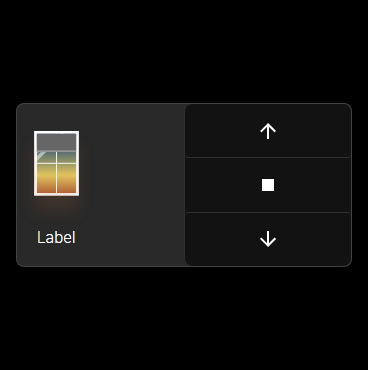
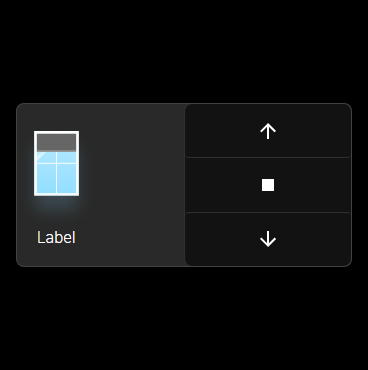
Updated widget images

Changed region(s): [[0.0897, 0.3865, 0.2092, 0.5649]]

diff --git a/components/icons/WindowVisual.tsx b/components/icons/WindowVisual.tsx
@@ -5,30 +5,30 @@ import DateTimeProvider from '../../src/services/DateTimeProvider';
 import styles from './WindowVisual.module.scss';
 
 var skySunnyGrads = [
-    [{ color: "00000c", position: 0 }, { color: "#00000c", position: 0 }],
-    [{ color: "020111", position: 85 }, { color: "#191621", position: 100 }],
-    [{ color: "020111", position: 60 }, { color: "#20202c", position: 100 }],
-    [{ color: "020111", position: 10 }, { color: "#3a3a52", position: 100 }],
-    [{ color: "20202c", position: 0 }, { color: "#515175", position: 100 }],
-    [{ color: "40405c", position: 0 }, { color: "#6f71aa", position: 80 }, { color: "#8a76ab", position: 100 }],
-    [{ color: "4a4969", position: 0 }, { color: "#7072ab", position: 50 }, { color: "#cd82a0", position: 100 }],
-    [{ color: "757abf", position: 0 }, { color: "#8583be", position: 60 }, { color: "#eab0d1", position: 100 }],
-    [{ color: "82addb", position: 0 }, { color: "#ebb2b1", position: 100 }],
-    [{ color: "94c5f8", position: 1 }, { color: "#a6e6ff", position: 70 }, { color: "#b1b5ea", position: 100 }],
-    [{ color: "b7eaff", position: 0 }, { color: "#94dfff", position: 100 }],
-    [{ color: "9be2fe", position: 0 }, { color: "#67d1fb", position: 100 }],
-    [{ color: "90dffe", position: 0 }, { color: "#38a3d1", position: 100 }],
-    [{ color: "57c1eb", position: 0 }, { color: "#246fa8", position: 100 }],
-    [{ color: "2d91c2", position: 0 }, { color: "#1e528e", position: 100 }],
-    [{ color: "2473ab", position: 0 }, { color: "#1e528e", position: 70 }, { color: "#5b7983", position: 100 }],
-    [{ color: "1e528e", position: 0 }, { color: "#265889", position: 50 }, { color: "#9da671", position: 100 }],
-    [{ color: "1e528e", position: 0 }, { color: "#728a7c", position: 50 }, { color: "#e9ce5d", position: 100 }],
-    [{ color: "154277", position: 0 }, { color: "#576e71", position: 30 }, { color: "#e1c45e", position: 70 }, { color: "#b26339", position: 100 }],
-    [{ color: "163C52", position: 0 }, { color: "#4F4F47", position: 30 }, { color: "#C5752D", position: 60 }, { color: "#B7490F", position: 80 }, { color: "#2F1107", position: 100 }],
-    [{ color: "071B26", position: 0 }, { color: "#071B26", position: 30 }, { color: "#8A3B12", position: 80 }, { color: "#240E03", position: 100 }],
-    [{ color: "010A10", position: 30 }, { color: "#59230B", position: 80 }, { color: "#2F1107", position: 100 }],
-    [{ color: "090401", position: 50 }, { color: "#4B1D06", position: 100 }],
-    [{ color: "00000c", position: 80 }, { color: "#150800", position: 100 }],
+    [{ color: "#00000c", position: 0 }, { color: "#00000c", position: 0 }],
+    [{ color: "#020111", position: 85 }, { color: "#191621", position: 100 }],
+    [{ color: "#020111", position: 60 }, { color: "#20202c", position: 100 }],
+    [{ color: "#020111", position: 10 }, { color: "#3a3a52", position: 100 }],
+    [{ color: "#20202c", position: 0 }, { color: "#515175", position: 100 }],
+    [{ color: "#40405c", position: 0 }, { color: "#6f71aa", position: 80 }, { color: "#8a76ab", position: 100 }],
+    [{ color: "#4a4969", position: 0 }, { color: "#7072ab", position: 50 }, { color: "#cd82a0", position: 100 }],
+    [{ color: "#757abf", position: 0 }, { color: "#8583be", position: 60 }, { color: "#eab0d1", position: 100 }],
+    [{ color: "#82addb", position: 0 }, { color: "#ebb2b1", position: 100 }],
+    [{ color: "#94c5f8", position: 1 }, { color: "#a6e6ff", position: 70 }, { color: "#b1b5ea", position: 100 }],
+    [{ color: "#b7eaff", position: 0 }, { color: "#94dfff", position: 100 }],
+    [{ color: "#9be2fe", position: 0 }, { color: "#67d1fb", position: 100 }],
+    [{ color: "#90dffe", position: 0 }, { color: "#38a3d1", position: 100 }],
+    [{ color: "#57c1eb", position: 0 }, { color: "#246fa8", position: 100 }],
+    [{ color: "#2d91c2", position: 0 }, { color: "#1e528e", position: 100 }],
+    [{ color: "#2473ab", position: 0 }, { color: "#1e528e", position: 70 }, { color: "#5b7983", position: 100 }],
+    [{ color: "#1e528e", position: 0 }, { color: "#265889", position: 50 }, { color: "#9da671", position: 100 }],
+    [{ color: "#1e528e", position: 0 }, { color: "#728a7c", position: 50 }, { color: "#e9ce5d", position: 100 }],
+    [{ color: "#154277", position: 0 }, { color: "#576e71", position: 30 }, { color: "#e1c45e", position: 70 }, { color: "#b26339", position: 100 }],
+    [{ color: "#163C52", position: 0 }, { color: "#4F4F47", position: 30 }, { color: "#C5752D", position: 60 }, { color: "#B7490F", position: 80 }, { color: "#2F1107", position: 100 }],
+    [{ color: "#071B26", position: 0 }, { color: "#071B26", position: 30 }, { color: "#8A3B12", position: 80 }, { color: "#240E03", position: 100 }],
+    [{ color: "#010A10", position: 30 }, { color: "#59230B", position: 80 }, { color: "#2F1107", position: 100 }],
+    [{ color: "#090401", position: 50 }, { color: "#4B1D06", position: 100 }],
+    [{ color: "#00000c", position: 80 }, { color: "#150800", position: 100 }],
 ];
 
 const WindowVisual = (props: { shadePerc: number, size: number, dateAndTime?: Date }) => {
@@ -46,7 +46,7 @@ const WindowVisual = (props: { shadePerc: number, size: number, dateAndTime?: Da
     const perc = Math.max(0, Math.min(props.shadePerc || 0, 1));
 
     const gradData = skySunnyGrads[hours];
-    const cssSkyGradStops = gradData.map((stop, index) => <stop key={index} offset={stop.position / 100} stopColor={`#${stop.color}`} />)
+    const cssSkyGradStops = gradData.map((stop, index) => <stop key={index} offset={stop.position / 100} stopColor={`${stop.color}`} />)
     const castColor = colorToRgb(gradData[gradData.length - 1].color);
     const castR = (castColor?.r || 0) / 255;
     const castG = (castColor?.g || 0) / 255;

diff --git a/.storybook/main.js b/.storybook/main.js
@@ -1,33 +1,21 @@
-const path = require('path');
-
 module.exports = {
-  stories: [
-    "../components/**/*.stories.mdx",
-    "../components/**/*.stories.@(js|jsx|ts|tsx)"
-  ],
-  addons: [
-    "@storybook/addon-links",
-    "@storybook/addon-essentials",
-    "@storybook/addon-a11y",
-    "@storybook/addon-storysource",
-    "storycap",
-    "storybook-addon-performance/register"
-  ],
-  framework: "@storybook/react",
-  core: {
-    builder: "webpack5"
-  },
-  staticDirs: ['../public'],
-  features: { emotionAlias: false },
-  webpackFinal: async (config) => {
-    // Add SCSS support for CSS Modules
-    // Source link https://github.com/storybookjs/storybook/issues/12464#issuecomment-824107014
-    config.module.rules.push({
-      test: /\.scss$/,
-      include: path.resolve(__dirname, '../'),
-      use: ['style-loader', 'css-loader?modules&importLoaders', 'sass-loader'],
-    });
-
-    return config;
-  }
+    stories: [
+        "../components/**/*.stories.mdx",
+        "../components/**/*.stories.@(js|jsx|ts|tsx)"
+    ],
+    addons: [
+        "@storybook/addon-links",
+        "@storybook/addon-essentials",
+        "@storybook/addon-a11y",
+        "@storybook/addon-storysource",
+        "storycap",
+        "storybook-addon-performance/register",
+        'storybook-addon-next'
+    ],
+    framework: "@storybook/react",
+    core: {
+        builder: "webpack5"
+    },
+    staticDirs: ['../public'],
+    features: { emotionAlias: false }
 }

diff --git a/components/widgets/Widget.stories.tsx b/components/widgets/Widget.stories.tsx
@@ -19,6 +19,7 @@ const screenshotSkipParams = {
     }
 }
 const screenshotParams = {
+    layout: 'centered',
     screenshot: {
         viewport: { width: 362, height: 370 }
     }
@@ -34,13 +35,13 @@ const screenshotParams = {
 const Template: ComponentStory<typeof Widget> = (args) => <Widget {...args} />;
 
 export const Empty = Template.bind({});
-Empty.parameters = screenshotSkipParams;
+Empty.parameters = process.env.WIDGET_IMAGES ? screenshotSkipParams : screenshotParams;
 
 export const EditMode = Template.bind({});
 EditMode.args = {
     isEditMode: true,
 };
-EditMode.parameters = screenshotSkipParams;
+EditMode.parameters = process.env.WIDGET_IMAGES ? screenshotSkipParams : screenshotParams;
 
 export const WidgetState = Template.bind({});
 WidgetState.args = {
@@ -74,9 +75,7 @@ WidgetShades.args = {
         columns: 4
     }
 };
-WidgetShades.parameters = process.env.WIDGET_IMAGES ? {
-    ...screenshotParams
-} : { ...screenshotSkipParams };
+WidgetShades.parameters = screenshotParams;
 
 export const WidgetVacuum = Template.bind({});
 WidgetVacuum.args = {
@@ -111,9 +110,7 @@ WidgetTime.args = {
         rows: 1
     }
 };
-WidgetTime.parameters = process.env.WIDGET_IMAGES ? {
-    ...screenshotParams
-} : { ...screenshotSkipParams };
+WidgetTime.parameters = screenshotParams;
 
 export const WidgetChecklist = Template.bind({});
 WidgetChecklist.args = {

diff --git a/.storybook/preview.js b/.storybook/preview.js
@@ -2,22 +2,21 @@ import { CssBaseline } from '@mui/material';
 import { StyledEngineProvider, ThemeProvider } from '@mui/material/styles';
 import theme from '../src/theme';
 import '../styles/global.scss';
-import * as NextImage from 'next/image';
 import { themes } from '@storybook/theming';
 import { AppContext } from '../pages/_app';
 import { withScreenshot } from 'storycap';
 import { withPerformance } from 'storybook-addon-performance';
+import { DateTimeProvider } from '../src/services/DateTimeProvider';
 
-// Fix for getting next/image to work with Storybook
-// Source link https://dev.to/jonasmerlin/how-to-use-the-next-js-image-component-in-storybook-1415
-const OriginalNextImage = NextImage.default;
-
-Object.defineProperty(NextImage, 'default', {
-    configurable: true,
-    value: (props) => (
-        <OriginalNextImage {...props} unoptimized />
-    )
-});
+const newStaticDate = new Date();
+newStaticDate.setUTCFullYear(2022);
+newStaticDate.setUTCMonth(5);
+newStaticDate.setUTCDate(1);
+newStaticDate.setUTCHours(10);
+newStaticDate.setUTCMinutes(9);
+newStaticDate.setUTCSeconds(36);
+newStaticDate.setUTCMilliseconds(0);
+DateTimeProvider.staticDateTime = newStaticDate;
 
 // Integrating with the MUI by defining a global decorator
 export const decorators = [

diff --git a/src/services/DateTimeProvider.ts b/src/services/DateTimeProvider.ts
@@ -1,12 +1,21 @@
 import UserSettingsProvider from "./UserSettingsProvider";
 import { getTimeZones } from "@vvo/tzdb";
 
-class DateTimeProvider {
+export class DateTimeProvider {
+    static staticDateTime: Date | undefined = undefined;
+
     now() {
         const timeZoneName = UserSettingsProvider.value('timeZone', undefined);
         const timeZone = getTimeZones().find(tz => tz.name === timeZoneName);
-        const _now = new Date();
-        return new Date(_now.getUTCFullYear(), _now.getUTCMonth(), _now.getUTCDate(), _now.getUTCHours(), _now.getUTCMinutes() + (timeZone?.currentTimeOffsetInMinutes ?? 0), _now.getUTCSeconds(), _now.getUTCMilliseconds());
+        const _now = DateTimeProvider.staticDateTime ?? new Date();
+        return new Date(
+            _now.getUTCFullYear(),
+            _now.getUTCMonth(),
+            _now.getUTCDate(),
+            _now.getUTCHours(),
+            _now.getUTCMinutes() + (timeZone?.currentTimeOffsetInMinutes ?? 0),
+            _now.getUTCSeconds(),
+            _now.getUTCMilliseconds());
     }
 }
 

diff --git a/components/dashboards/Dashboards.tsx b/components/dashboards/Dashboards.tsx
@@ -15,7 +15,7 @@ import { useLoadAndError } from "../../src/hooks/useLoadingAndError";
 import Image from "next/image";
 import useHashParam from "../../src/hooks/useHashParam";
 
-const WidgetStoreDynamic = dynamic(() => import("../widgets/WidgetStore"));
+const WidgetStoreDynamic = dynamic(() => import("../widget-store/WidgetStore"));
 
 const Dashboards = () => {
     const [selectedId, setSelectedId] = React.useState<string | undefined>(undefined);

diff --git a/components/widget-store/WidgetStore.stories.tsx b/components/widget-store/WidgetStore.stories.tsx
@@ -1,10 +1,10 @@
 import React from 'react';
 import { ComponentStory, ComponentMeta } from '@storybook/react';
-import Widget from './Widget';
 import WidgetStore from './WidgetStore';
+import Widget from '../widgets/Widget';
 
 export default {
-    title: 'Components/Widgets/Store',
+    title: 'Components/Store/Widgets',
     component: WidgetStore,
 } as ComponentMeta<typeof WidgetStore>;
 

diff --git a/components/widget-store/WidgetStore.tsx b/components/widget-store/WidgetStore.tsx
@@ -3,7 +3,7 @@ import React from "react";
 import Image from 'next/image';
 import useSearch, { filterFuncObjectStringProps } from "../../src/hooks/useSearch";
 import { AddOutlined } from "@mui/icons-material";
-import { widgetType } from "./Widget";
+import { widgetType } from "../widgets/Widget";
 
 const availableWidgets = [
     {

diff --git a/pages/features/dashboards.tsx b/pages/features/dashboards.tsx
@@ -1,6 +1,6 @@
 import { Stack, Typography } from "@mui/material";
 import { PageLayout } from "../../components/layouts/PageLayout";
-import WidgetStore from "../../components/widgets/WidgetStore";
+import WidgetStore from "../../components/widget-store/WidgetStore";
 
 const FeatureDashboardsPage = () => (
     <Stack spacing={4}>
